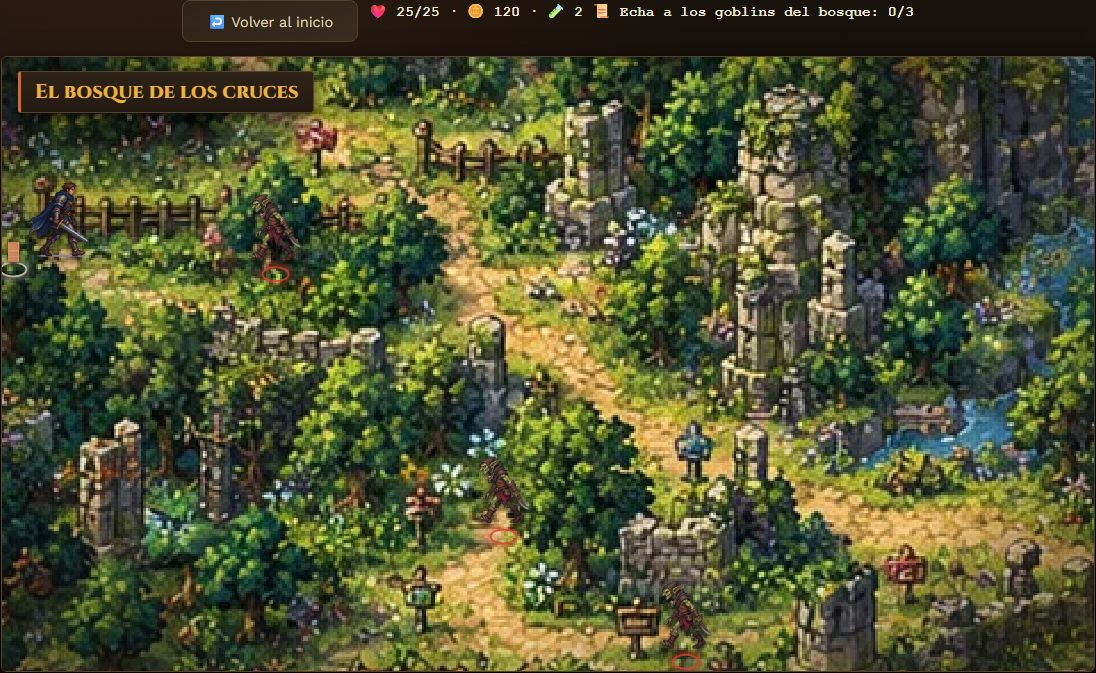
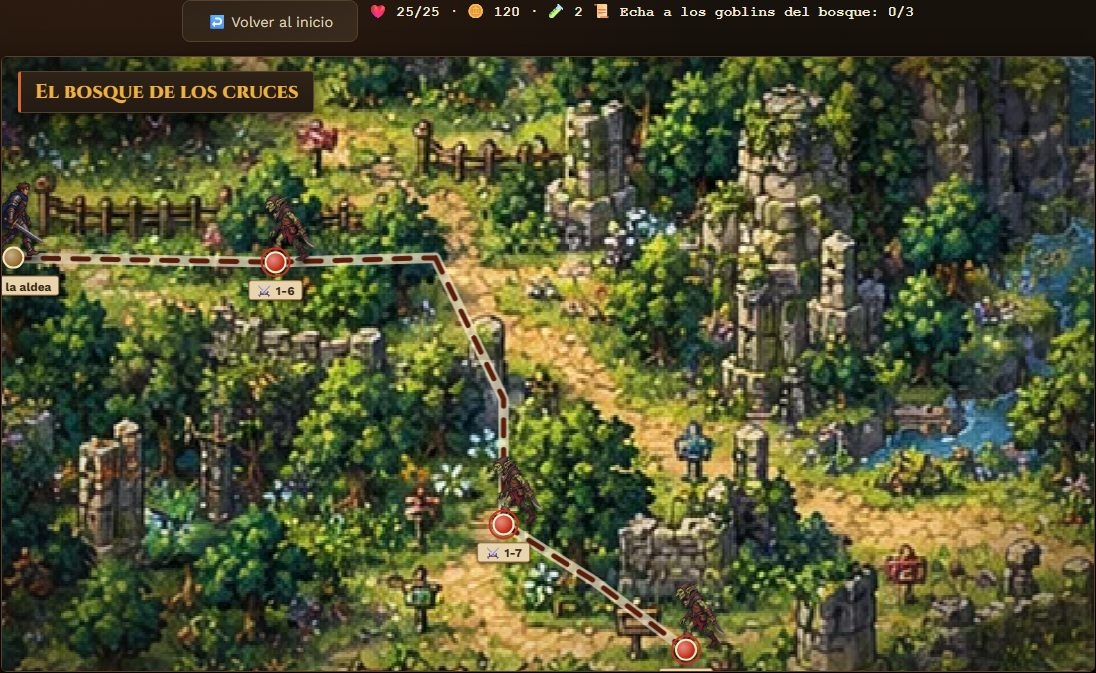
Versión 1.5.1: Zafias como un mapa antiguo
Caminos a trazos de tinta y paradas numeradas que laten (1-1, 1-2…); el
héroe anda de parada en parada y los enemigos cortan el paso. README con
capturas nuevas de la aventura.

diff --git a/src/main.js b/src/main.js
@@ -1,15 +1,15 @@
-import * as UI from './ui.js?v=1.5.0';
-import * as Engine from './engine.js?v=1.5.0';
-import * as Events from './events.js?v=1.5.0';
-import * as Save from './save.js?v=1.5.0';
-import * as Items from './items.js?v=1.5.0';
-import * as Meta from './meta.js?v=1.5.0';
-import * as Adventure from './adventure-view.js?v=1.5.0';
-import { ZAFIAS } from './data/zones/zafias.js?v=1.5.0';
-import { RPG_BALANCE } from './data/balance.js?v=1.5.0';
-import { tierName } from './data/monsters.js?v=1.5.0';
-import { createRng, newSeed, seedToCode, codeToSeed } from './rng.js?v=1.5.0';
-import { GAME_VERSION } from './version.js?v=1.5.0';
+import * as UI from './ui.js?v=1.5.1';
+import * as Engine from './engine.js?v=1.5.1';
+import * as Events from './events.js?v=1.5.1';
+import * as Save from './save.js?v=1.5.1';
+import * as Items from './items.js?v=1.5.1';
+import * as Meta from './meta.js?v=1.5.1';
+import * as Adventure from './adventure-view.js?v=1.5.1';
+import { ZAFIAS } from './data/zones/zafias.js?v=1.5.1';
+import { RPG_BALANCE } from './data/balance.js?v=1.5.1';
+import { tierName } from './data/monsters.js?v=1.5.1';
+import { createRng, newSeed, seedToCode, codeToSeed } from './rng.js?v=1.5.1';
+import { GAME_VERSION } from './version.js?v=1.5.1';
 
 // Expuesto para depuración y para los tests del navegador
 window.Engine = Engine;

diff --git a/index.html b/index.html
@@ -8,7 +8,7 @@
     <link rel="preconnect" href="https://fonts.googleapis.com">
     <link rel="preconnect" href="https://fonts.gstatic.com" crossorigin>
     <link href="https://fonts.googleapis.com/css2?family=Cinzel:wght@600;800&family=Work+Sans:wght@400;500;600;700&display=swap" rel="stylesheet">
-    <link rel="stylesheet" href="style.css?v=1.5.0">
+    <link rel="stylesheet" href="style.css?v=1.5.1">
 </head>
 <body>
     <header class="game-header">
@@ -19,7 +19,7 @@
             <button type="button" class="game-nav-btn" data-panel="achievements" title="Logros"><span aria-hidden="true">🏆</span><span class="game-nav-label">Logros</span></button>
             <button type="button" class="game-nav-btn" data-panel="options" title="Opciones"><span aria-hidden="true">⚙</span><span class="game-nav-label">Opciones</span></button>
         </nav>
-        <span class="game-version">v1.5.0 · en desarrollo</span>
+        <span class="game-version">v1.5.1 · en desarrollo</span>
     </header>
 
     <!-- Paneles superpuestos: consultables en cualquier momento, sin abandonar la ruta en curso -->
@@ -169,6 +169,6 @@
         </section>
     </main>
 
-    <script type="module" src="src/main.js?v=1.5.0"></script>
+    <script type="module" src="src/main.js?v=1.5.1"></script>
 </body>
 </html>

diff --git a/src/engine.js b/src/engine.js
@@ -1,9 +1,9 @@
-import { RPG_BALANCE } from './data/balance.js?v=1.5.0';
-import { pickMonsterDef } from './data/monsters.js?v=1.5.0';
-import { ADJECTIVES_BY_ID, LINEAGES_BY_ID, adjectivesFor, lineagesFor } from './data/variants.js?v=1.5.0';
-import { DAMAGE_TYPES, equipItem, createStarterItem, ruleSum, ruleMax, hasRule } from './items.js?v=1.5.0';
-import { PRIMARY_BASE, derivePrimary, isElementalDamage } from './stats.js?v=1.5.0';
-import { HEAVY_TELLS, HEAVY_TELL_MIN } from './data/telegraphs.js?v=1.5.0';
+import { RPG_BALANCE } from './data/balance.js?v=1.5.1';
+import { pickMonsterDef } from './data/monsters.js?v=1.5.1';
+import { ADJECTIVES_BY_ID, LINEAGES_BY_ID, adjectivesFor, lineagesFor } from './data/variants.js?v=1.5.1';
+import { DAMAGE_TYPES, equipItem, createStarterItem, ruleSum, ruleMax, hasRule } from './items.js?v=1.5.1';
+import { PRIMARY_BASE, derivePrimary, isElementalDamage } from './stats.js?v=1.5.1';
+import { HEAVY_TELLS, HEAVY_TELL_MIN } from './data/telegraphs.js?v=1.5.1';
 
 // =============================================
 // 🗡 RPG-pack — motor (puro, sin DOM)

diff --git a/src/meta.js b/src/meta.js
@@ -1,9 +1,9 @@
-import { ALL_MONSTER_DEFS, SUBBOSS_ROSTER, BOSS_DEF, DEEP_BOSSES } from './data/monsters.js?v=1.5.0';
-import { EVENT_MONSTERS, RPG_EVENTS } from './data/events.js?v=1.5.0';
-import { DAMAGE_TYPES } from './items.js?v=1.5.0';
-import { PRIMARY_KEYS, XP_REWARD, POINTS_PER_LEVEL, xpToNext } from './stats.js?v=1.5.0';
-import { UPGRADES, UPGRADES_BY_ID, upgradeCost, upgradeMax } from './data/upgrades.js?v=1.5.0';
-import { RPG_BALANCE } from './data/balance.js?v=1.5.0';
+import { ALL_MONSTER_DEFS, SUBBOSS_ROSTER, BOSS_DEF, DEEP_BOSSES } from './data/monsters.js?v=1.5.1';
+import { EVENT_MONSTERS, RPG_EVENTS } from './data/events.js?v=1.5.1';
+import { DAMAGE_TYPES } from './items.js?v=1.5.1';
+import { PRIMARY_KEYS, XP_REWARD, POINTS_PER_LEVEL, xpToNext } from './stats.js?v=1.5.1';
+import { UPGRADES, UPGRADES_BY_ID, upgradeCost, upgradeMax } from './data/upgrades.js?v=1.5.1';
+import { RPG_BALANCE } from './data/balance.js?v=1.5.1';
 export { PRIMARY_KEYS, XP_REWARD, POINTS_PER_LEVEL, xpToNext };
 export { UPGRADES, UPGRADES_BY_ID, upgradeCost, upgradeMax };
 

diff --git a/src/ui.js b/src/ui.js
@@ -1,10 +1,10 @@
-import * as Engine from './engine.js?v=1.5.0';
-import * as Items from './items.js?v=1.5.0';
-import * as Meta from './meta.js?v=1.5.0';
-import * as Stats from './stats.js?v=1.5.0';
-import { upgradeAmountText } from './data/upgrades.js?v=1.5.0';
-import { RPG_BALANCE } from './data/balance.js?v=1.5.0';
-import { ADJECTIVES_BY_ID, LINEAGES_BY_ID, MONSTER_ADJECTIVES, MONSTER_LINEAGES } from './data/variants.js?v=1.5.0';
+import * as Engine from './engine.js?v=1.5.1';
+import * as Items from './items.js?v=1.5.1';
+import * as Meta from './meta.js?v=1.5.1';
+import * as Stats from './stats.js?v=1.5.1';
+import { upgradeAmountText } from './data/upgrades.js?v=1.5.1';
+import { RPG_BALANCE } from './data/balance.js?v=1.5.1';
+import { ADJECTIVES_BY_ID, LINEAGES_BY_ID, MONSTER_ADJECTIVES, MONSTER_LINEAGES } from './data/variants.js?v=1.5.1';
 
 // =============================================
 // 🖼 RPG-pack — capa de presentación (DOM)

diff --git a/src/items.js b/src/items.js
@@ -1,6 +1,6 @@
-import { RARITIES, RARITY_BY_ID, RARITY_MIN, RARITY_BIAS, rollRarity, discardHeal } from './data/rarities.js?v=1.5.0';
-import { ITEM_BASES, ITEM_BASE_BY_ID, ITEM_SLOTS, DAMAGE_TYPES, BASIC_WEAPON_ID, basesBySlot } from './data/items.js?v=1.5.0';
-import { AFFIX_POOL, AFFIX_UNIQUES, affixText } from './data/affixes.js?v=1.5.0';
+import { RARITIES, RARITY_BY_ID, RARITY_MIN, RARITY_BIAS, rollRarity, discardHeal } from './data/rarities.js?v=1.5.1';
+import { ITEM_BASES, ITEM_BASE_BY_ID, ITEM_SLOTS, DAMAGE_TYPES, BASIC_WEAPON_ID, basesBySlot } from './data/items.js?v=1.5.1';
+import { AFFIX_POOL, AFFIX_UNIQUES, affixText } from './data/affixes.js?v=1.5.1';
 
 // =============================================
 // 🎒 RPG-pack — equipo (puro, sin DOM)

diff --git a/src/data/events.js b/src/data/events.js
@@ -19,8 +19,8 @@
 // El daño de un evento nunca mata: deja al héroe como mínimo en 1 HP.
 // =============================================
 
-import { RPG_BALANCE } from './balance.js?v=1.5.0';
-import { atk, CHARGE } from './monsters.js?v=1.5.0';
+import { RPG_BALANCE } from './balance.js?v=1.5.1';
+import { atk, CHARGE } from './monsters.js?v=1.5.1';
 
 // `pattern` = los movimientos que repite en ciclo (ver data/monsters.js); el jugador ve el siguiente antes de actuar.
 export const EVENT_MONSTERS = {

diff --git a/src/events.js b/src/events.js
@@ -1,6 +1,6 @@
-import * as Engine from './engine.js?v=1.5.0';
-import { campfireBonus } from './items.js?v=1.5.0';
-import { RPG_EVENTS, RPG_SPECIAL_EVENTS, EVENT_MONSTERS } from './data/events.js?v=1.5.0';
+import * as Engine from './engine.js?v=1.5.1';
+import { campfireBonus } from './items.js?v=1.5.1';
+import { RPG_EVENTS, RPG_SPECIAL_EVENTS, EVENT_MONSTERS } from './data/events.js?v=1.5.1';
 
 // =============================================
 // 🎲 RPG-pack — motor de eventos (puro, sin DOM)

diff --git a/src/data/variants.js b/src/data/variants.js
@@ -17,7 +17,7 @@
 //   pattern(p)         devuelve el patrón de movimientos transformado
 //   rules              banderas que lee el motor durante el combate (ver engine.js)
 // =============================================
-import { atk, heal, CHARGE, GUARD, REST } from './monsters.js?v=1.5.0';
+import { atk, heal, CHARGE, GUARD, REST } from './monsters.js?v=1.5.1';
 
 // Quita de un patrón los movimientos que no son ataques (para los que «no se paran»)
 const onlyAttacks = p => {

diff --git a/src/version.js b/src/version.js
@@ -3,5 +3,5 @@
 // No se edita a mano: la cambia `npm run version -- patch|minor|major` (ver docs/versiones.md),
 // que también actualiza package.json, el registro de cambios y el código de caché de los archivos.
 // =============================================
-export const GAME_VERSION = '1.5.0';
+export const GAME_VERSION = '1.5.1';
 export const RELEASE_DATE = '2026-09-30';

diff --git a/src/save.js b/src/save.js
@@ -1,5 +1,5 @@
-import { createRng } from './rng.js?v=1.5.0';
-import { GAME_VERSION } from './version.js?v=1.5.0';
+import { createRng } from './rng.js?v=1.5.1';
+import { GAME_VERSION } from './version.js?v=1.5.1';
 
 // =============================================
 // 💾 Guardado de partida (puro: recibe el almacenamiento por parámetro, así se prueba sin navegador)

diff --git a/src/adventure-view.js b/src/adventure-view.js
@@ -1,4 +1,4 @@
-import { ZAFIAS, ZAFIAS_DIALOGUES } from './data/zones/zafias.js?v=1.5.0';
+import { ZAFIAS, ZAFIAS_DIALOGUES } from './data/zones/zafias.js?v=1.5.1';
 
 // =============================================
 // 🧭 Modo Aventura — visor de escenas, estilo mapa antiguo
